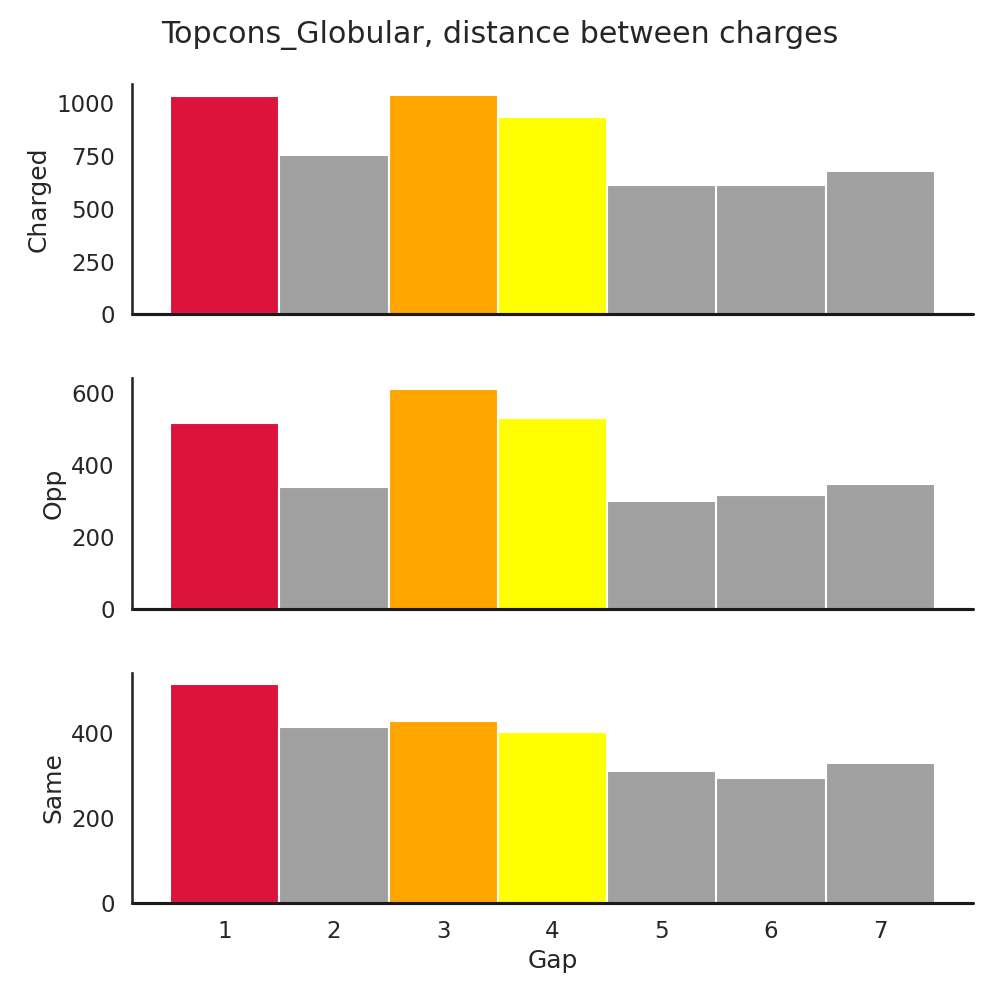
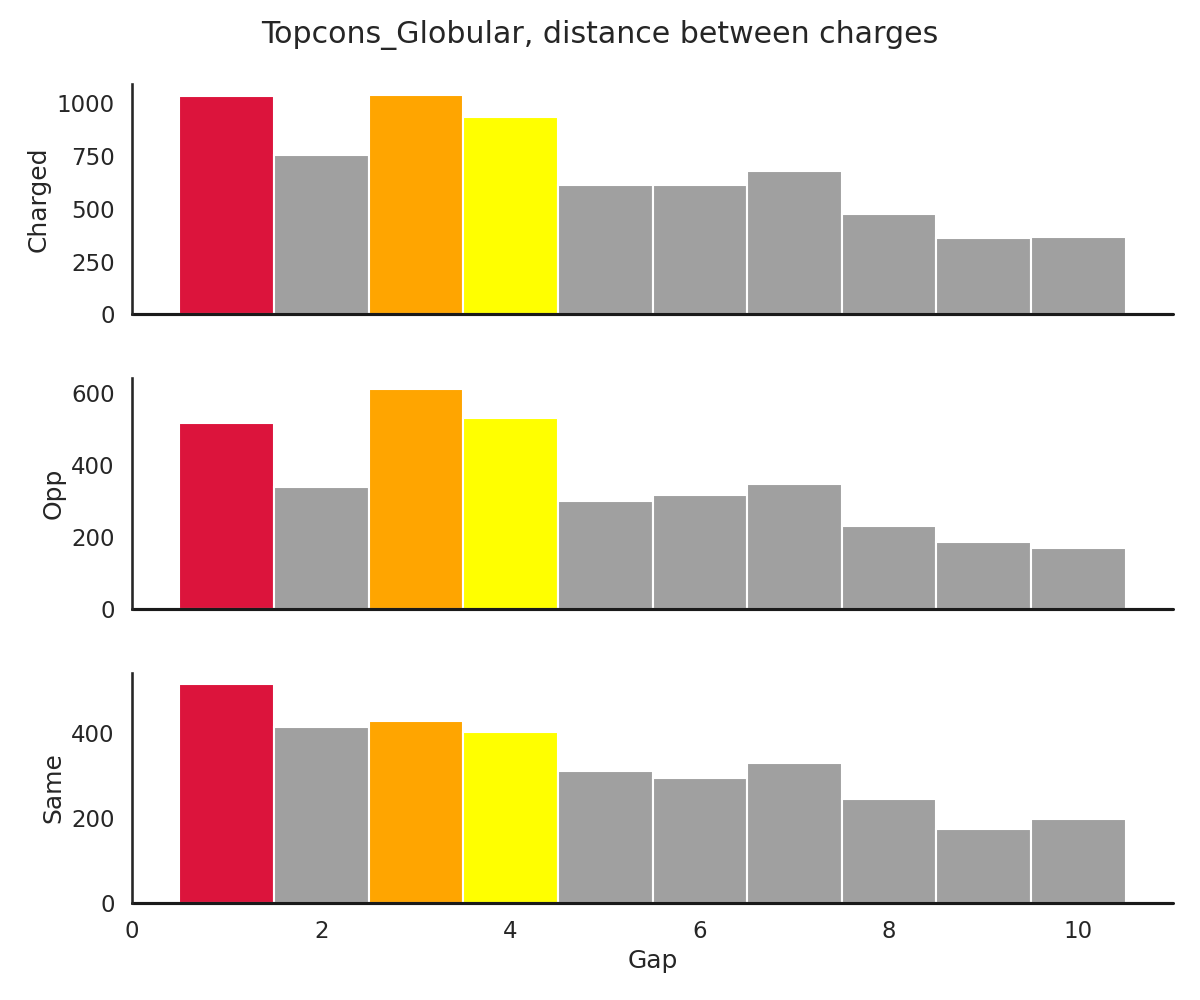
Update to gap 8

diff --git a/bin/visualizeAAs.py b/bin/visualizeAAs.py
@@ -77,22 +77,28 @@ for i in range(10):
     # -1.96*math.sqrt(1/a+1/b+1/c+1/d))))
     # ci.append((math.log(odds)+1.96*math.sqrt(1/a+1/b+1/c+1/d),
     # math.log(odds)-1.96*math.sqrt(1/a+1/b+1/c+1/d)))
-f, axarr = plt.subplots(3, 3, figsize=(16, 14))
+# f, axarr = plt.subplots(3, 3, figsize=(16, 14))
+f, axarr = plt.subplots(2, 4, figsize=(24, 10))
 # axarr[-1, -1].axis('off')
 # axarr[-1, -2].axis('off')
 # plt.suptitle("TMs alpha helices, trimmed, pdb50, len > 15, V2")
 plt.suptitle(args.title)
-for i in range(9):
+for i in range(8):
     # print(i)
+    if i == 3 or i==7:
+        show_cbar=True
+    else:
+        show_cbar=False
+    # show_cbar = True
     df = pd.DataFrame(logOdds[i],
                       index=[c for c in aas],
                       columns=[c for c in aas])
     ax = sns.heatmap(df,
-                     ax=axarr[i // 3, i % 3],
+                     ax=axarr[i // 4, i % 4],
                      vmin=-2,
                      vmax=2,
                      cmap="coolwarm",
-                     center=0)
+                     center=0, cbar=show_cbar)
     ax.title.set_text("Gap " + str(i + 1))
 plt.tight_layout()
 plt.subplots_adjust(top=0.93)

diff --git a/bin/statsCharges.py b/bin/statsCharges.py
@@ -337,10 +337,10 @@ df_same["Type"] = "Same"
 df_opp = pd.DataFrame(opp_hist_data_sanH, columns=["Gap"])
 df_opp["Type"] = "Opp"
 df = pd.concat([df_charge, df_same, df_opp], ignore_index=True)
-df = df[df["Gap"] < 8]
+df = df[df["Gap"] < 9]
 
 sns.set_theme(style="white", context="talk")
-f, (ax1, ax2, ax3) = plt.subplots(3, 1, figsize=(10, 10), sharex=True)
+f, (ax1, ax2, ax3) = plt.subplots(3, 1, figsize=(15, 10), sharex=True)
 f.suptitle(name + ", distance between charges")
 sns.histplot(df[df["Type"]=="Charged"], x="Gap", color="grey", discrete=True, ax=ax1)
 ax1.axhline(0, color="k", clip_on=False)
@@ -355,6 +355,7 @@ for ax in [ax1, ax2, ax3]:
     ax.patches[0].set_facecolor("crimson")
     ax.patches[2].set_facecolor("orange")
     ax.patches[3].set_facecolor("yellow")
+    # ax.xtick(range(1,10))
 sns.despine(bottom=True)
 plt.tight_layout(h_pad=2)
 plt.savefig('images/' + name + '.png')
